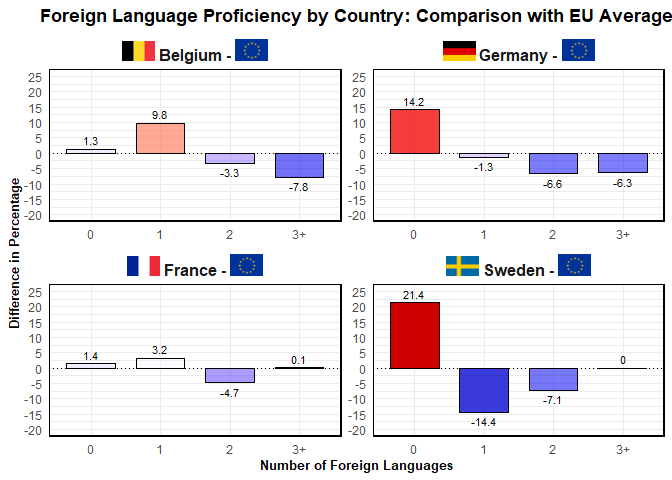
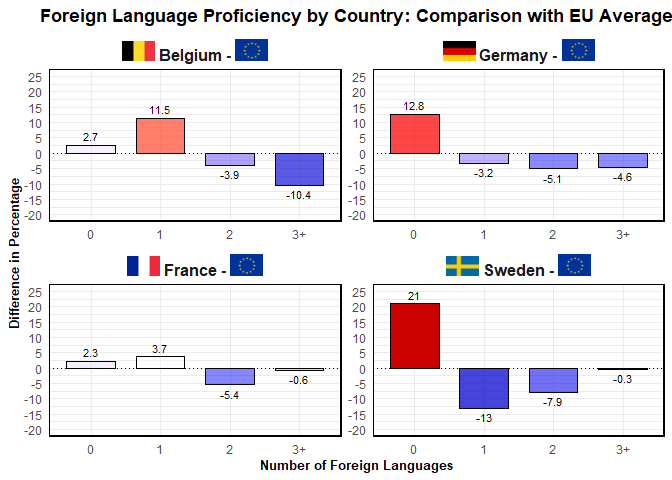
finalize project solution

diff --git a/Projects/Selena-qian/kickbones1.md b/Projects/Selena-qian/kickbones1.md
@@ -17,11 +17,18 @@
 
     library(ggplot2)
     library(ggtext)
+    library(countrycode)
+
+    # set wd to script's source
+    setwd(dirname(rstudioapi::getActiveDocumentContext()$path))
 
     # load dataset
     data <- read.csv("lang_known.csv")
 
+    ###########################
     # Data Manipulation
+    ###########################
+
     selected <- data %>%
       # filter by year 2022
       filter(TIME_PERIOD == 2022) %>%
@@ -36,37 +43,39 @@
         n_lang == "2 languages" ~ "2",
         n_lang == "3 languages or more" ~ "3+",
       )) %>%
-      # compute averages for known languages
-      group_by(geo, n_lang) %>%
-      mutate(Average = mean(OBS_VALUE)) %>%
-      # Compute the difference between country average and EU average
-      group_by(n_lang, isced11) %>%
-      mutate(EU_Avg = Average[geo == "European Union - 27 countries (from 2020)"]) %>%
-      mutate(avg_diff = EU_Avg - Average) %>%
+      # filter for all educational backgrounds
+      filter(isced11 == "All ISCED 2011 levels") %>%
+      # separate EU data to calculate difference in avg's
+      group_by(n_lang) %>%
+      mutate(EU_Avg = OBS_VALUE[geo == "European Union - 27 countries (from 2020)"]) %>%
       ungroup() %>%
+      # Compute the difference between country average and EU average
+      mutate(avg_diff = EU_Avg - OBS_VALUE) %>%
       # Keep only one row per country and known language
       distinct(geo, n_lang, .keep_all = TRUE) %>%
       # drop unused attributes
-      select( -c(DATAFLOW, LAST.UPDATE, freq, unit, OBS_FLAG, OBS_VALUE)) %>%
+      select( -c(DATAFLOW, LAST.UPDATE, freq, unit, OBS_FLAG)) %>%
       # drop the EU data
       filter(geo != "European Union - 27 countries (from 2020)")
 
-    # Data Visualization
-
-    # add html link for img
-    selected <- selected %>%
-      mutate(
-        geo_label = case_when(
-          geo == "Germany" ~ "<img src='https://flagcdn.com/w40/de.png' height='15' width='25'/> Germany - <img src='https://flagcdn.com/w40/eu.png' width='25'/>",
-          geo == "France" ~ "<img src='https://flagcdn.com/w40/fr.png' height='15' width='25'/> France - <img src='https://flagcdn.com/w40/eu.png' width='25'/>",
-          geo == "Belgium" ~ "<img src='https://flagcdn.com/w40/be.png' height='15' width='25'/> Belgium - <img src='https://flagcdn.com/w40/eu.png' width='25'/>",
-          geo == "Sweden" ~ "<img src='https://flagcdn.com/w40/se.png' height='15' width='25'/> Sweden - <img src='https://flagcdn.com/w40/eu.png' width='25'/>",
-          TRUE ~ geo
-        )
-      )
+    ###########################
+    # Data Visualization         
+    ###########################
 
     selected %>%
-      ggplot(aes(x = as.factor(n_lang), y = avg_diff, fill = avg_diff)) +  
+      mutate(
+        # get iso 2-letter code dynamically
+        iso2 = countrycode(geo, origin = "country.name", destination = "iso2c"),
+        # create geo_label with flags and country name
+        geo_label = paste0(
+          "<img src='https://flagcdn.com/w40/", tolower(iso2), ".png' height='15' width='25'/> ",
+          geo, 
+          " - <img src='https://flagcdn.com/w40/eu.png' width='25'/>"
+        )
+      ) %>%
+      ggplot(aes(x = as.factor(n_lang), y = avg_diff, fill = avg_diff)) + 
+      
+      # add barplot
       geom_bar(stat = "identity", width = 0.7, aes(alpha = abs(avg_diff)), color = "black") +
       
       # Add dotted horizontal line at 0%
@@ -79,7 +88,7 @@
         size = 3, color = "black"
       ) +
       
-      # Custom gradient scale for fill: Darker shades for low negative values and red for positive
+      # Custom gradient scale for fill: Darker shades of blue for low negative values and red for positive
       scale_fill_gradientn(
         colours = c("blue3", "blue", "white", "red", "red3")
       ) +
@@ -112,7 +121,7 @@
         legend.position = "none"
       )
 
-## The Plot
+## The Graph
 ![](kickbones1_files/figure-markdown_strict/unnamed-chunk-1-1.png)
 
 Source:
